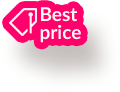
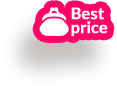
поменял лейблу bestprice

diff --git a/html/catalog.html b/html/catalog.html
@@ -121,9 +121,9 @@
 <li class="product vegan">
 
     <a href="#">
-                                <span class="product__img">
-                                    <img src="../images/products/1.png" alt=""  tooltip-placement="bottom" tooltip="Нежный краб, соевый соус, соевый соус, соевый соус ,соевый соус соевый соус дикий рис, среднемалазийское васаби">
-                                </span>
+        <span class="product__img">
+            <img src="../images/products/1.png" alt=""  tooltip-placement="bottom" tooltip="Нежный краб, соевый соус соевый соус дикий рис, среднемалазийское васаби">
+        </span>
         <p class="product__title">Суши Каппа Спайси Унаги Тамаго</p>
     </a>
     <div class="product-buy">
@@ -135,7 +135,7 @@
 <li class="product new">
     <a href="#">
                                 <span class="product__img">
-                                    <img src="../images/products/2.png" alt="">
+                                    <img src="../images/products/2.png" alt=""  tooltip-placement="bottom" tooltip="Нежный краб, соевый соус соевый соус дикий рис, среднемалазийское васаби">
                                 </span>
         <p class="product__title">Суши Каппа Спайси Унаги Тамаго</p>
     </a>
@@ -148,7 +148,7 @@
 <li class="product hot">
     <a href="#">
                                 <span class="product__img">
-                                    <img src="../images/products/3.png" alt="">
+                                    <img src="../images/products/3.png" alt=""  tooltip-placement="bottom" tooltip="Нежный краб, соевый соус соевый соус дикий рис, среднемалазийское васаби">
                                 </span>
         <p class="product__title">Суши Каппа Спайси Унаги Тамаго</p>
     </a>
